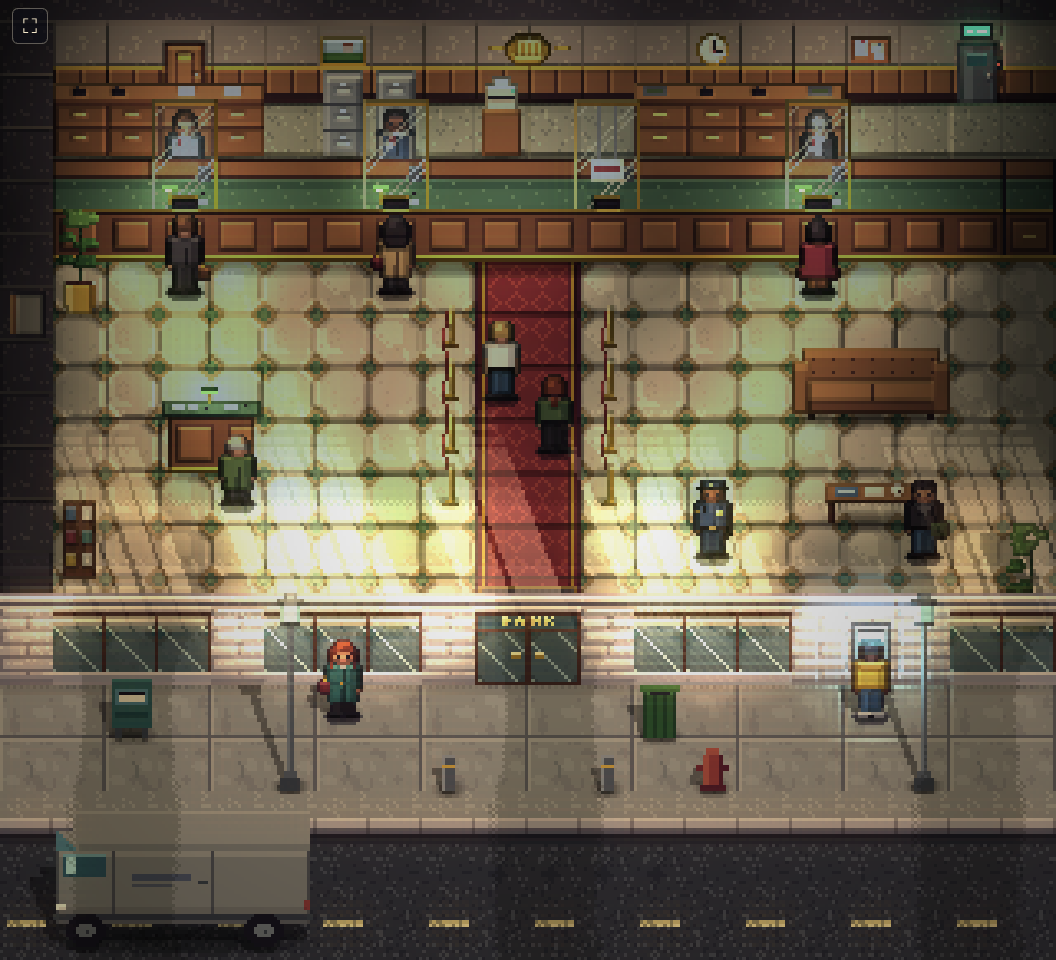
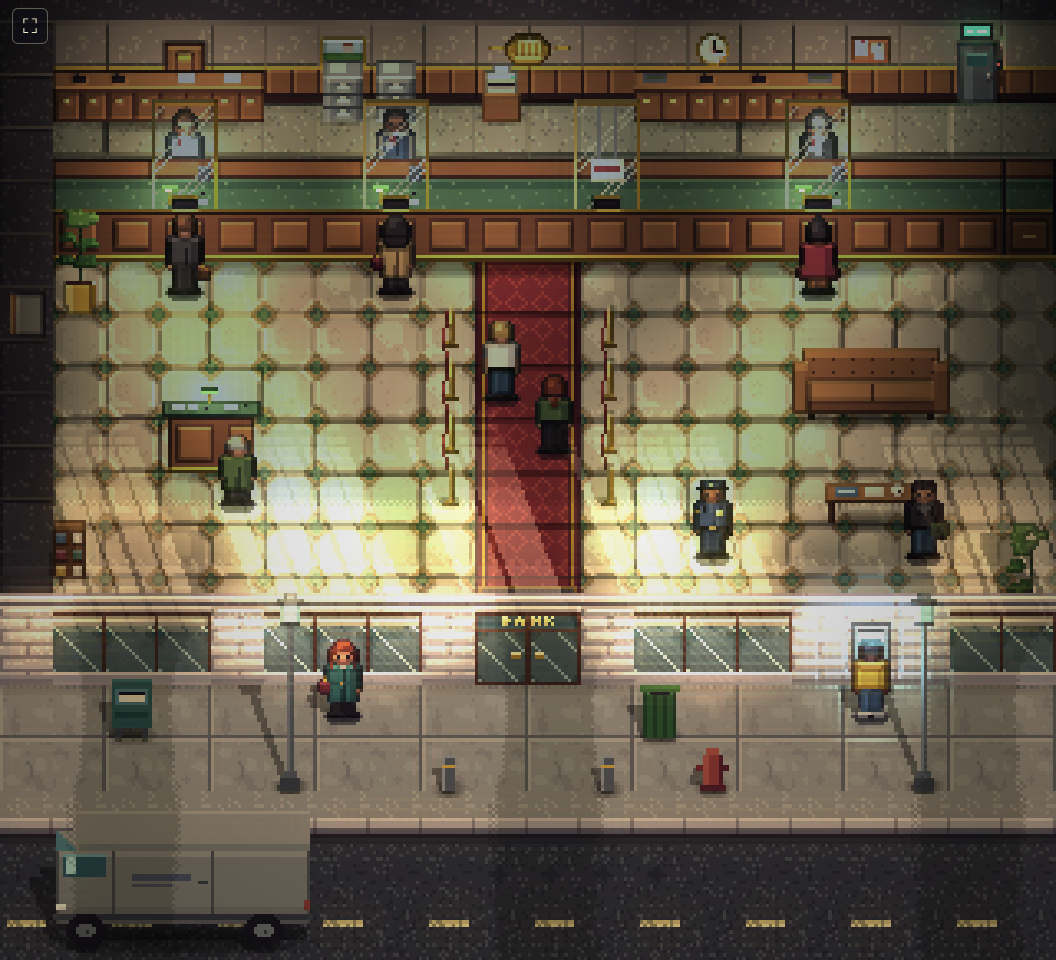
Lobby preview: furniture stands flush against its wall
Props can declare their footprint depth; the scene then pushes them back
against a wall to their north and sideways against a side wall, instead
of anchoring them at the front edge of their tile. The credenzas, filing
cabinets, copier, water cooler and brochure rack are redrawn to scale
against the 24px walls (about 10cm a pixel).

Claude-Session: https://claude.ai/code/session_01LiRSX9QW4LERJSxq7zdRb3

diff --git a/src/art/bank/props.ts b/src/art/bank/props.ts
@@ -22,6 +22,11 @@ export interface PropArt {
     flat?: boolean;
     /** Hung on the face of the wall in its tile (from the face's top edge), or sat on that wall's cap. */
     mount?: 'face' | 'cap';
+    /**
+     * Ground depth of the object's footprint, in pixels. Furniture that gives it is pushed back against any wall it
+     * borders, so a cabinet stands flush to the wall behind it instead of at the front edge of its tile.
+     */
+    depth?: number;
 }
 
 const glowOf = (b: PixelBitmap) => new PixelBitmap(b.width, b.height);
@@ -113,15 +118,16 @@ function counter(p: Extract<LobbyProp, { kind: 'counter' }>): PropArt {
 }
 
 function backCounter(p: Extract<LobbyProp, { kind: 'backCounter' }>): PropArt {
-    const w = p.width * TILE, h = 22;
+    // A credenza about 0.9m tall and 0.6m deep: a 6px top over a 10px drawer front.
+    const top = 6, front = 10, w = p.width * TILE, h = top + front;
     const b = new PixelBitmap(w, h);
     const rand = mulberry32(p.tx * 31 + 7);
-    for (let x = 0; x < w; x++) for (let y = 0; y < 6; y++) b.set(x, y, y === 0 ? PAL.walnut[5] : y === 5 ? PAL.walnut[2] : PAL.walnut[4], 0.9);
-    for (let y = 6; y < h; y++) for (let x = 0; x < w; x++) {
-        const drawer = x % TILE === 0 || y === 6 || y === 13;
+    for (let x = 0; x < w; x++) for (let y = 0; y < top; y++) b.set(x, y, y === top - 1 ? PAL.walnut[5] : y === 0 ? PAL.walnut[2] : PAL.walnut[4], 0.9);
+    for (let y = top; y < h; y++) for (let x = 0; x < w; x++) {
+        const drawer = x % (TILE / 2) === 0 || y === top || y === h - 1;
         b.set(x, y, drawer ? PAL.walnut[1] : PAL.walnut[3], drawer ? 0.55 : 0.65);
     }
-    for (let x = 6; x < w; x += TILE) { b.rect(x, 9, 4, 1, PAL.brass[4], 0.75); b.rect(x, 16, 4, 1, PAL.brass[4], 0.75); }
+    for (let x = 3; x < w; x += TILE / 2) b.rect(x, top + 3, 2, 1, PAL.brass[4], 0.75);
     // Clutter on top: paper stacks, a cash tray, a phone.
     for (let i = 0; i < p.width; i++) {
         const x = i * TILE + 2 + Math.floor(rand() * 6);
@@ -130,46 +136,52 @@ function backCounter(p: Extract<LobbyProp, { kind: 'backCounter' }>): PropArt {
         else if (pick < 0.7) { b.rect(x, 1, 7, 3, PAL.steel[2], 0.95); b.rect(x + 1, 2, 5, 1, PAL.cloth.olive[2]!, 0.96); }
         else { b.rect(x, 2, 4, 2, PAL.ink, 0.95); b.set(x + 1, 1, PAL.cloth.black[3]!, 0.97); }
     }
-    return { lit: b, shadow: { x: 0, y: h - 2, w, h: 4 } };
+    return { lit: b, depth: top, shadow: { x: 0, y: h - 2, w, h: 4 } };
 }
 
 function filingCabinet(): PropArt {
-    const b = new PixelBitmap(TILE, 26);
-    for (let y = 0; y < 26; y++) for (let x = 2; x < 14; x++) {
+    // About 1.3m tall and 0.6m deep: a 6px top over a three-drawer 13px front.
+    const top = 6, front = 13, h = top + front;
+    const b = new PixelBitmap(TILE, h);
+    for (let y = 0; y < h; y++) for (let x = 2; x < 14; x++) {
         let c = step(PAL.steel, x < 4 ? 4 : x > 11 ? 2 : 3);
-        if (y < 3) c = y === 0 ? PAL.steel[5] : PAL.steel[4];
-        if (y === 10 || y === 18) c = PAL.steel[1];
-        b.set(x, y, c, y < 3 ? 1 : 0.7);
+        if (y < top) c = y === top - 1 ? PAL.steel[5] : PAL.steel[4];
+        if (y === top + 4 || y === top + 8) c = PAL.steel[1];
+        b.set(x, y, c, y < top ? 1 : 0.7);
     }
-    for (const y of [6, 14, 22]) b.rect(6, y, 4, 1, PAL.steel[5], 0.8);
-    for (const y of [4, 12, 20]) b.rect(7, y, 2, 1, PAL.paper[3], 0.75);
-    return { lit: b, shadow: { x: 2, y: 24, w: 12, h: 3 } };
+    for (const y of [top + 2, top + 6, top + 10]) { b.rect(6, y, 4, 1, PAL.steel[5], 0.8); b.rect(7, y - 1, 2, 1, PAL.paper[3], 0.75); }
+    b.rect(4, 1, 5, 3, PAL.paper[2], 1);
+    return { lit: b, depth: top, shadow: { x: 2, y: h - 3, w: 12, h: 3 } };
 }
 
 function printer(): PropArt {
-    const b = new PixelBitmap(TILE, 26);
-    b.rect(2, 12, 12, 14, PAL.walnut[3], 0.6);
-    b.rect(2, 12, 12, 1, PAL.walnut[5], 0.8);
-    b.rect(3, 4, 10, 8, PAL.paper[1], 0.9);
-    b.rect(3, 4, 10, 2, PAL.paper[2], 1);
-    b.rect(5, 2, 6, 2, PAL.paper[3], 1);
-    b.rect(4, 8, 8, 1, PAL.ink, 0.8);
-    b.set(11, 6, PAL.emissive.ledGreen, 1);
-    return { lit: b, shadow: { x: 2, y: 24, w: 12, h: 3 } };
+    // A copier on a low stand: 0.7m stand, the machine on top, 0.6m deep.
+    const top = 6, h = 18;
+    const b = new PixelBitmap(TILE, h);
+    b.rect(2, 9, 12, 9, PAL.walnut[3], 0.6);
+    b.rect(2, 9, 12, 1, PAL.walnut[5], 0.8);
+    b.rect(3, 2, 10, 7, PAL.paper[1], 0.9);
+    b.rect(3, 2, 10, 3, PAL.paper[2], 1);
+    b.rect(5, 0, 6, 2, PAL.paper[3], 1);
+    b.rect(4, 6, 8, 1, PAL.ink, 0.8);
+    b.set(11, 4, PAL.emissive.ledGreen, 1);
+    return { lit: b, depth: top, shadow: { x: 2, y: h - 3, w: 12, h: 3 } };
 }
 
 function waterCooler(): PropArt {
-    const b = new PixelBitmap(TILE, 28);
-    b.rect(4, 12, 8, 16, PAL.paper[2], 0.7);
-    b.rect(4, 12, 8, 1, PAL.paper[3], 0.9);
-    b.rect(11, 12, 1, 16, PAL.paper[1], 0.65);
-    b.rect(6, 17, 1, 2, PAL.cloth.denim[3]!, 0.8);
-    b.rect(9, 17, 1, 2, PAL.cloth.burgundy[3]!, 0.8);
-    b.rect(5, 1, 6, 11, PAL.glass[3], 0.95);
-    b.rect(5, 1, 2, 11, PAL.glass[4], 1);
-    b.rect(6, 0, 4, 1, PAL.glass[2], 0.95);
-    b.rect(5, 4, 6, 1, PAL.glass[2], 0.9);
-    return { lit: b, shadow: { x: 3, y: 26, w: 10, h: 3 } };
+    // About 1.3m to the top of the bottle and 0.4m deep.
+    const h = 18;
+    const b = new PixelBitmap(TILE, h);
+    b.rect(5, 7, 7, 11, PAL.paper[2], 0.7);
+    b.rect(5, 7, 7, 1, PAL.paper[3], 0.9);
+    b.rect(11, 7, 1, 11, PAL.paper[1], 0.65);
+    b.set(7, 10, PAL.cloth.denim[3]!, 0.8);
+    b.set(9, 10, PAL.cloth.burgundy[3]!, 0.8);
+    b.rect(6, 1, 5, 6, PAL.glass[3], 0.95);
+    b.rect(6, 1, 2, 6, PAL.glass[4], 1);
+    b.rect(7, 0, 3, 1, PAL.glass[2], 0.95);
+    b.rect(6, 3, 5, 1, PAL.glass[2], 0.9);
+    return { lit: b, depth: 4, shadow: { x: 4, y: h - 3, w: 9, h: 3 } };
 }
 
 function crest(): PropArt {
@@ -368,16 +380,19 @@ function plant(seed: number): PropArt {
 }
 
 function brochureRack(): PropArt {
-    const b = new PixelBitmap(TILE, 24);
-    b.rect(3, 0, 10, 24, PAL.walnut[2], 0.6);
-    b.rect(3, 0, 10, 1, PAL.walnut[4], 0.8);
+    // About 1.5m tall and 0.3m deep, its shelves of leaflets facing the room.
+    const top = 3, h = 18;
+    const b = new PixelBitmap(TILE, h);
+    b.rect(3, 0, 10, h, PAL.walnut[2], 0.6);
+    b.rect(3, 0, 10, top, PAL.walnut[4], 0.8);
     const colors = [PAL.cloth.denim[3]!, PAL.paper[3], PAL.cloth.burgundy[3]!, PAL.cloth.teal[3]!, PAL.cloth.mustard[3]!, PAL.paper[2]];
     for (let row = 0; row < 3; row++) for (let col = 0; col < 2; col++) {
-        b.rect(4 + col * 5, 2 + row * 7, 3, 5, colors[row * 2 + col]!, 0.75);
-        b.hline(4 + col * 5, 2 + row * 7, 3, mix(colors[row * 2 + col]!, 0xffffff, 0.3), 0.77);
-        b.hline(4 + col * 5, 6 + row * 7, 4, PAL.walnut[1], 0.7);
+        const y = top + 1 + row * 5;
+        b.rect(4 + col * 5, y, 3, 3, colors[row * 2 + col]!, 0.75);
+        b.hline(4 + col * 5, y, 3, mix(colors[row * 2 + col]!, 0xffffff, 0.3), 0.77);
+        b.hline(4 + col * 5, y + 3, 4, PAL.walnut[1], 0.7);
     }
-    return { lit: b, shadow: { x: 3, y: 22, w: 10, h: 3 } };
+    return { lit: b, depth: top, shadow: { x: 3, y: h - 3, w: 10, h: 3 } };
 }
 
 function bin(): PropArt {

diff --git a/src/scenes/LobbyScene.ts b/src/scenes/LobbyScene.ts
@@ -133,8 +133,7 @@ export class LobbyScene extends Phaser.Scene {
         LOBBY_PROPS.forEach((p, i) => {
             const art = propArt(p);
             const key = `lobby-prop-${i}`;
-            const left = p.tx * TILE + (art.offsetX ?? 0);
-            const bottom = (p.ty + 1) * TILE;
+            const { left, bottom } = this.placeProp(p.tx, p.ty, art);
             // Wall-mounted art hangs from the top of its wall's face or sits on its cap, just in front of the wall.
             const top = art.mount === 'face' ? bottom - WALL_HEIGHT : art.mount === 'cap' ? bottom - BLOCK_HEIGHT : bottom - art.lit.height;
             const depth = art.flat ? DEPTH.flat : DEPTH.standing + bottom + (art.mount ? 0.25 : 0);
@@ -149,6 +148,24 @@ export class LobbyScene extends Phaser.Scene {
             if (art.shadow) occluders.push(propOccluder(art, left, top));
         });
         return occluders;
+    }
+
+    /**
+     * Where a prop's bitmap goes: its bottom-left corner sits on the bottom-left of its tile, except that furniture with
+     * a footprint depth is pushed back flush against a wall to its north, and sideways against a wall to its west or east.
+     */
+    private placeProp(tx: number, ty: number, art: PropArt): { left: number; bottom: number } {
+        let left = tx * TILE + (art.offsetX ?? 0);
+        let bottom = (ty + 1) * TILE;
+        if (art.depth === undefined) return { left, bottom };
+        const wallAt = (x: number, y: number) => { const t = this.tiles[y]?.[x]; return t !== undefined && isStructure(t); };
+        if (wallAt(tx, ty - 1)) bottom = ty * TILE + art.depth;
+        if (art.lit.width === TILE) {
+            const columns = [...Array(TILE).keys()].filter(x => [...Array(art.lit.height).keys()].some(y => art.lit.opaque(x, y)));
+            if (wallAt(tx - 1, ty)) left = tx * TILE - columns[0]!;
+            else if (wallAt(tx + 1, ty)) left = tx * TILE + TILE - 1 - columns.at(-1)!;
+        }
+        return { left, bottom };
     }
 
     private buildPeople(): Occluder[] {

diff --git a/docs/design/visual-preview.md b/docs/design/visual-preview.md
@@ -13,7 +13,8 @@ is agreed.
    south of the wall is open, under a cap the depth of the tile, both lifted so they overlap the floor (and anyone)
    up to 1.5 tiles behind the wall. Half-height objects such as the counter have a 15px front, so full walls and half
    cover read apart at a glance. The shop front is a thin wall of stone and see-through glass. People are 16x24 and
-   **stand in the middle of their tile**; depth follows each object's base line.
+   **stand in the middle of their tile**; depth follows each object's base line. Furniture is drawn to scale against
+   the 24px wall (1px is about 10cm) and stands flush against the wall it backs onto, not at the front of its tile.
 2. **Muted, hue-shifted ramps** (`src/art/palette.ts`). Darks drift cool, lights warm, the lightest steps desaturate.
    No pure black: the darkest colour is a cool ink. One ramp per material, so greens stay green.
 3. **Zones are drawn into the floor** (§8.1): cream marble and a red runner for Public, linoleum for Staff; concrete and
